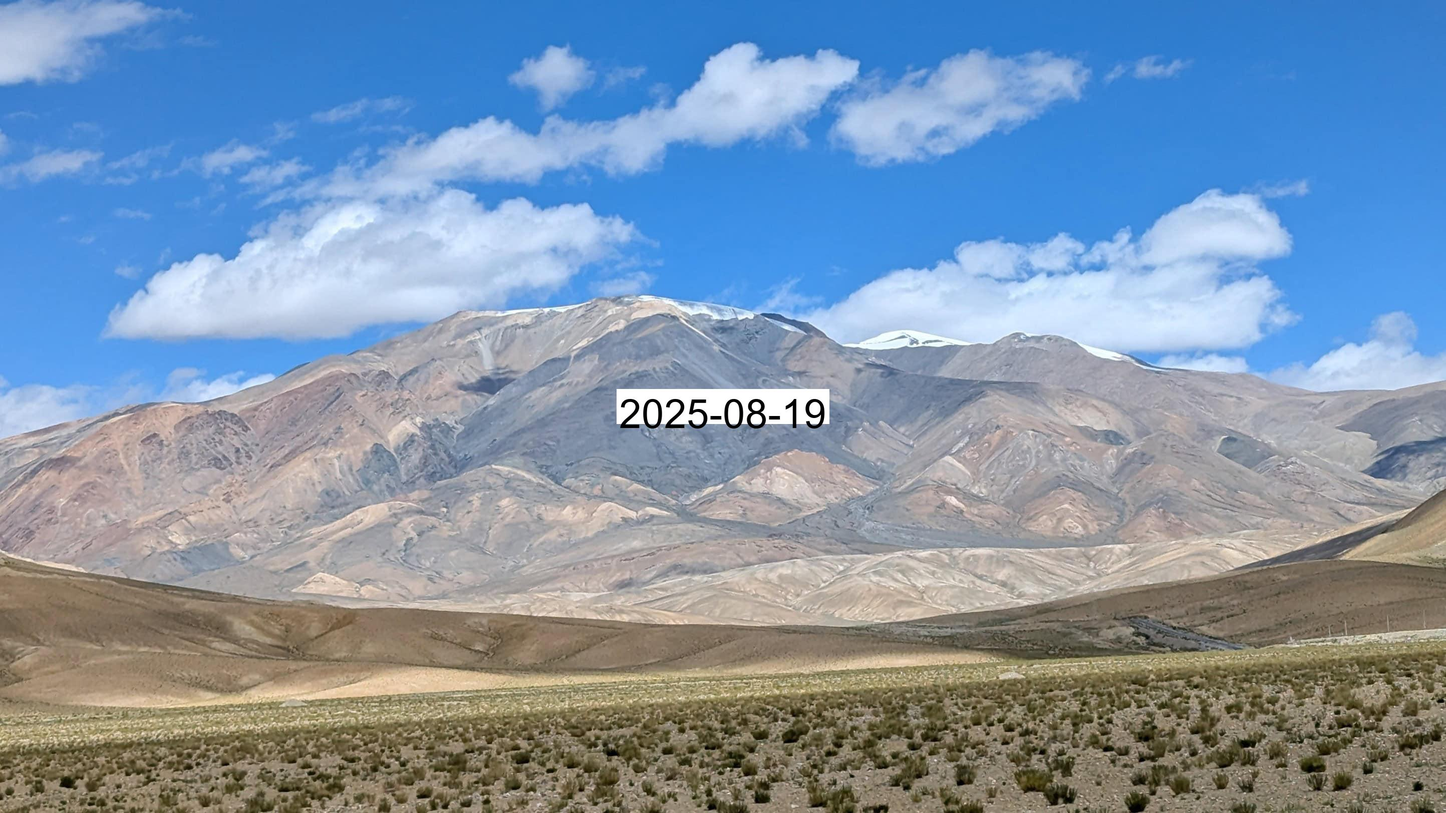
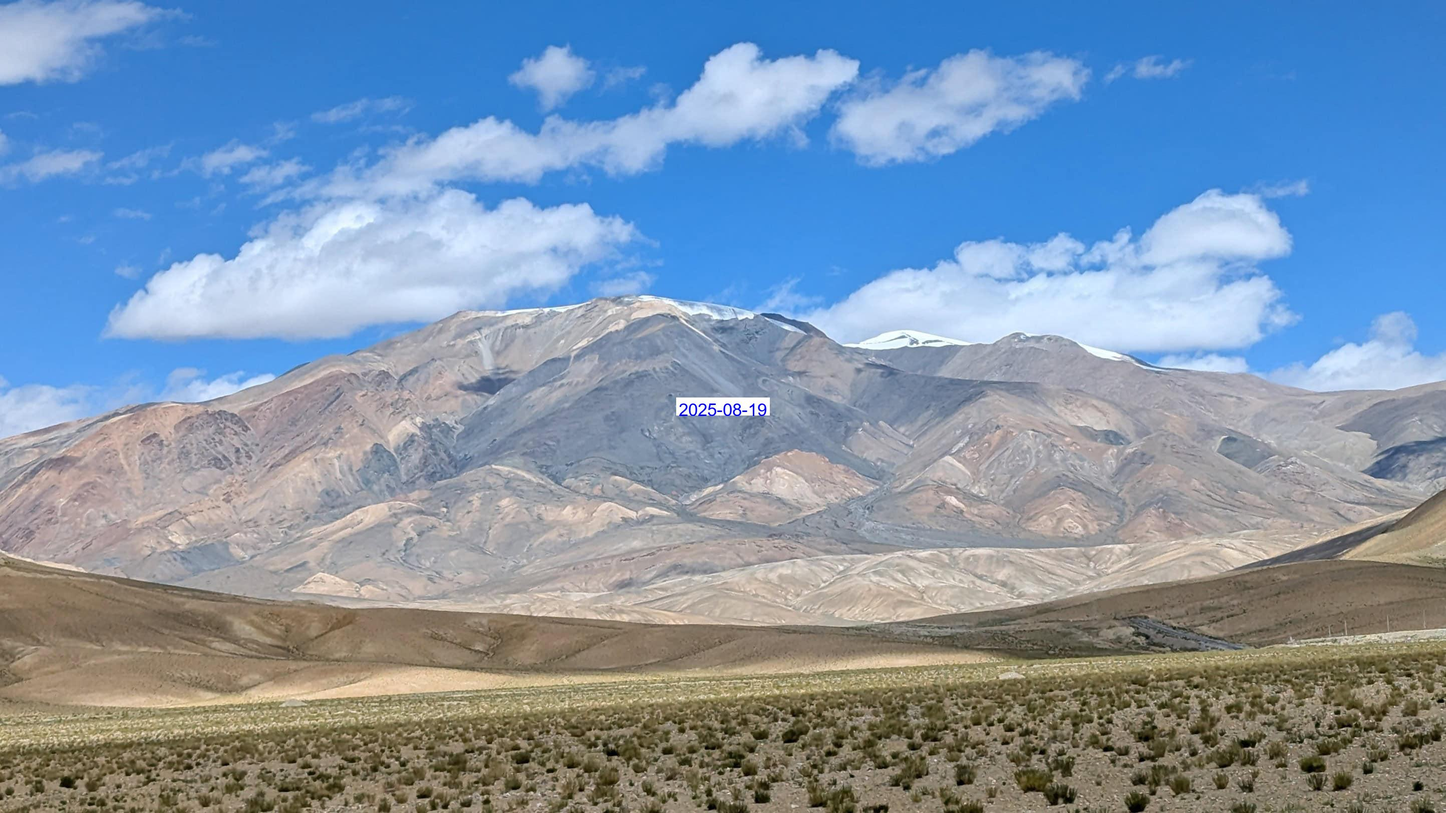
添加新的水印位置选项并更新文档

Changed region(s): [[0.4053, 0.4618, 0.5923, 0.5234]]

diff --git a/watermark.py b/watermark.py
@@ -131,6 +131,14 @@ def add_watermark_to_image(image_path, output_dir, font_size=30, text_color='bla
             x, y = width - text_width - margin, height - text_height - margin
         elif position == 'center':
             x, y = (width - text_width) // 2, (height - text_height) // 2
+        elif position == 'top':
+            x, y = (width - text_width) // 2, margin
+        elif position == 'bottom':
+            x, y = (width - text_width) // 2, height - text_height - margin
+        elif position == 'left':
+            x, y = margin, (height - text_height) // 2
+        elif position == 'right':
+            x, y = width - text_width - margin, (height - text_height) // 2
         else:
             # 默认右下角
             x, y = width - text_width - margin, height - text_height - margin
@@ -191,7 +199,7 @@ if __name__ == "__main__":
     parser.add_argument('--text-color', type=str, default='black', help='水印文本颜色（支持十六进制、RGB元组或预定义颜色名，默认：black）')
     parser.add_argument('--bg-color', type=str, default='white', help='水印背景颜色（支持十六进制、RGB元组或预定义颜色名，默认：white）')
     parser.add_argument('--position', type=str, default='bottom-right', 
-                        choices=['top-left', 'top-right', 'bottom-left', 'bottom-right', 'center'],
+                        choices=['top-left', 'top-right', 'bottom-left', 'bottom-right', 'center', 'top', 'bottom', 'left', 'right'],
                         help='水印位置（默认：bottom-right）')
     args = parser.parse_args()
 

diff --git a/README.md b/README.md
@@ -49,7 +49,7 @@ python watermark.py 图片路径 --font-size 字体大小 --text-color 文本颜
 - `--font-size`：设置水印字体大小（默认值：30）
 - `--text-color`：设置水印文本颜色（支持多种格式，默认值：black）
 - `--bg-color`：设置水印背景颜色（支持多种格式，默认值：white）
-- `--position`：设置水印位置（可选值：top-left、top-right、bottom-left、bottom-right、center，默认值：bottom-right）
+- `--position`：设置水印位置（可选值：top-left、top-right、bottom-left、bottom-right、center、top、bottom、left、right，默认值：bottom-right）
 
 #### 颜色格式：
 
